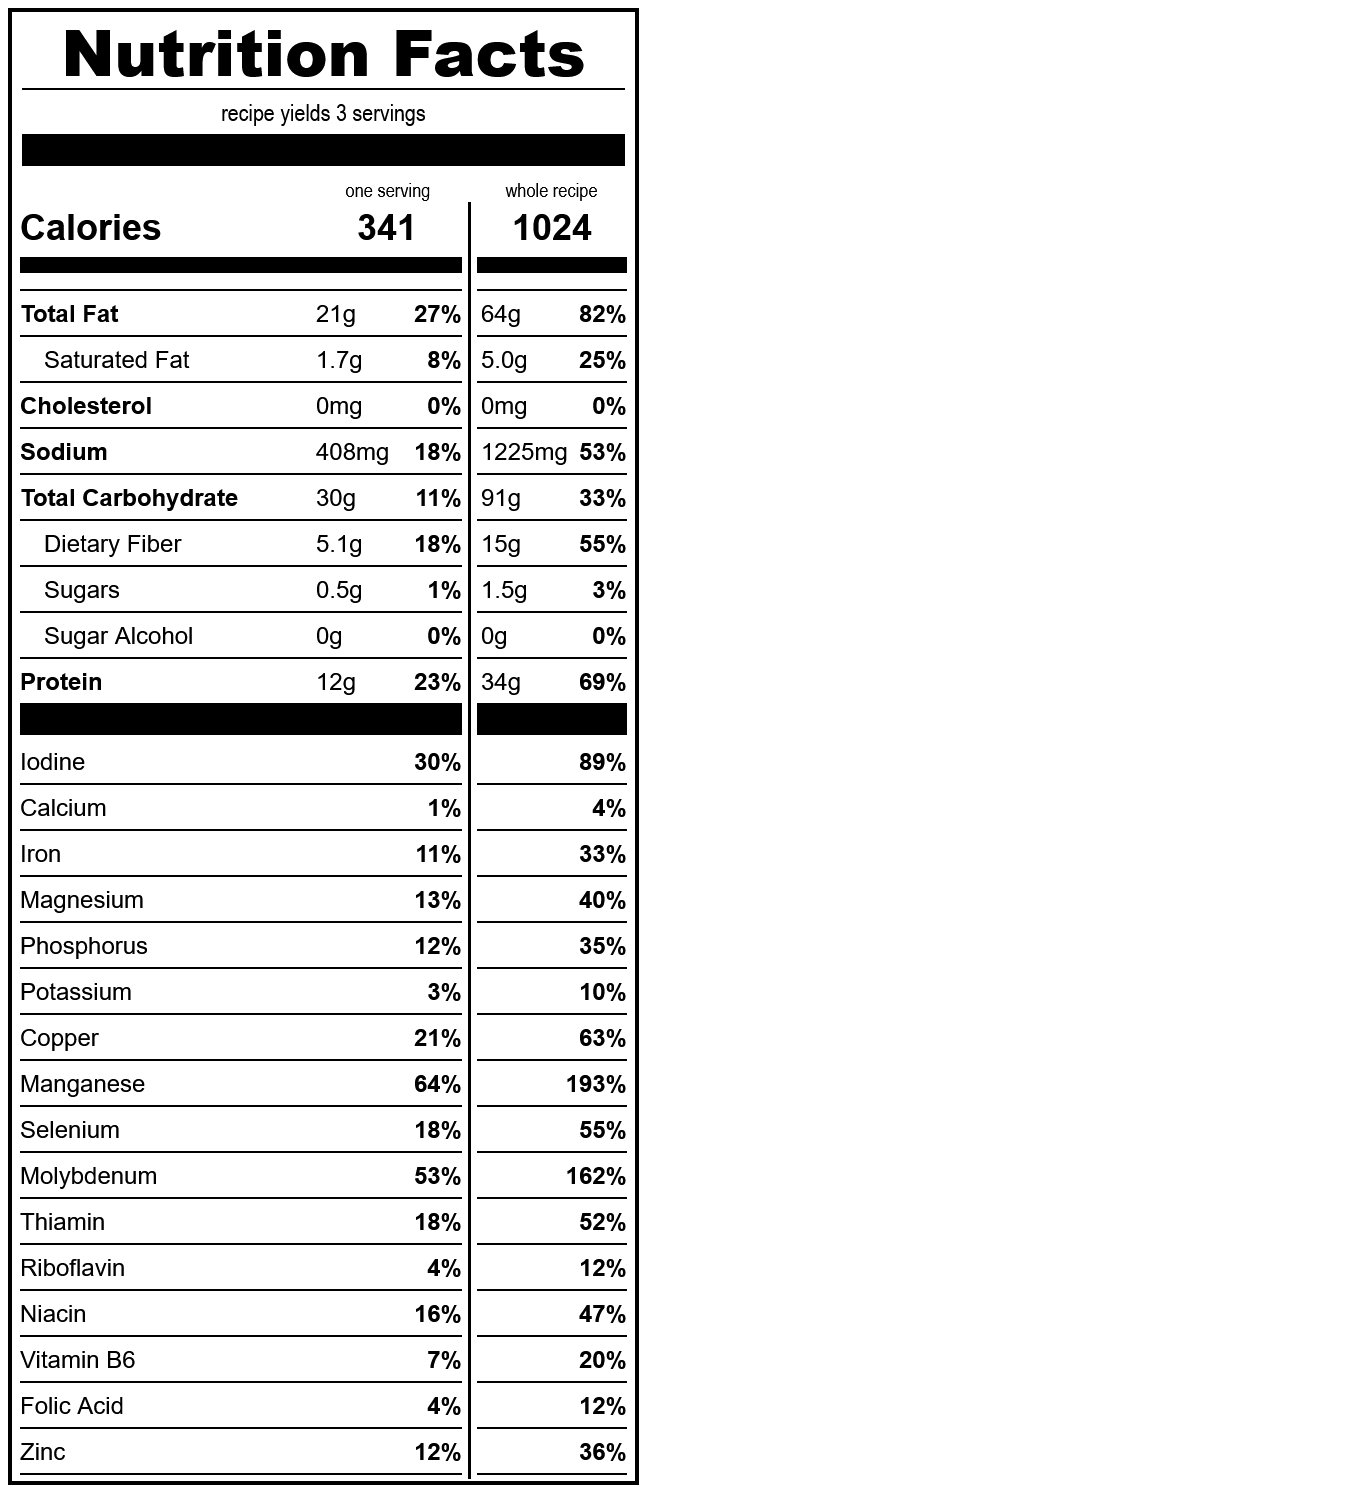
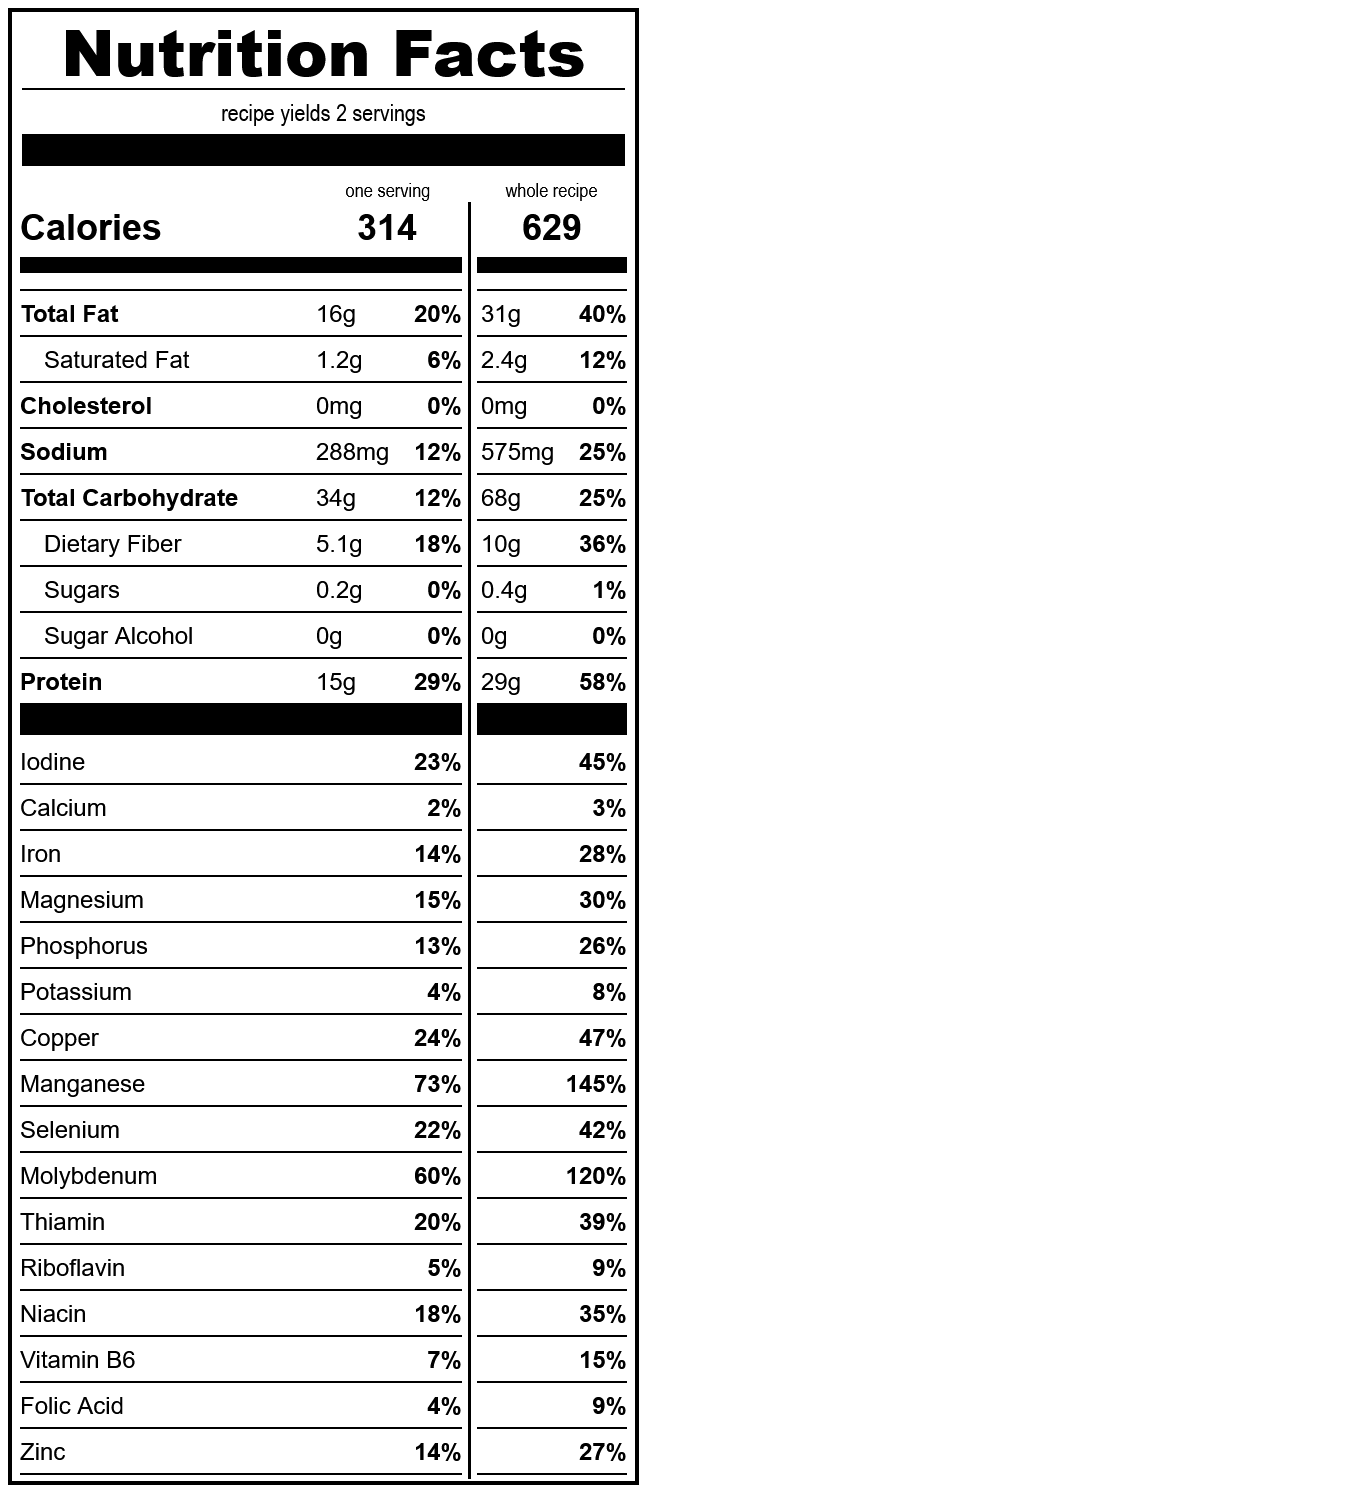
update crepes & waffles

diff --git a/source/nutrition/nutrition_labels/crepes/nutrition_facts.html b/source/nutrition/nutrition_labels/crepes/nutrition_facts.html
@@ -129,7 +129,7 @@
         <div id="pre-table">
             <h1>Nutrition Facts</h1>
             <hr>
-            <p id="servings">recipe yields 3 servings</p>
+            <p id="servings">recipe yields 2 servings</p>
             <hr class="thiccc">
         </div>
 
@@ -144,11 +144,11 @@
                     <hr class="thicc">
                     <hr>
                 </td>
-                <td>341
+                <td>314
                     <hr class="thicc">
                     <hr>
                 </td>
-                <td>1024
+                <td>629
                     <hr class="thicc">
                     <hr>
                 </td>
@@ -157,10 +157,10 @@
                 <td>Total Fat
                     <hr>
                 </td>
-                <td class="grams">21g<span class="dv">27%</span>
+                <td class="grams">16g<span class="dv">20%</span>
                     <hr>
                 </td>
-                <td class="grams">64g<span class="dv">82%</span>
+                <td class="grams">31g<span class="dv">40%</span>
                     <hr>
                 </td>
             </tr>
@@ -168,10 +168,10 @@
                 <td><span class="subset">Saturated Fat</span>
                     <hr>
                 </td>
-                <td class="grams">1.7g<span class="dv">8%</span>
+                <td class="grams">1.2g<span class="dv">6%</span>
                     <hr>
                 </td>
-                <td class="grams">5.0g<span class="dv">25%</span>
+                <td class="grams">2.4g<span class="dv">12%</span>
                     <hr>
                 </td>
             </tr>
@@ -190,10 +190,10 @@
                 <td>Sodium
                     <hr>
                 </td>
-                <td class="grams">408mg<span class="dv">18%</span>
+                <td class="grams">288mg<span class="dv">12%</span>
                     <hr>
                 </td>
-                <td class="grams">1225mg<span class="dv">53%</span>
+                <td class="grams">575mg<span class="dv">25%</span>
                     <hr>
                 </td>
             </tr>
@@ -201,10 +201,10 @@
                 <td>Total Carbohydrate
                     <hr>
                 </td>
-                <td class="grams">30g<span class="dv">11%</span>
+                <td class="grams">34g<span class="dv">12%</span>
                     <hr>
                 </td>
-                <td class="grams">91g<span class="dv">33%</span>
+                <td class="grams">68g<span class="dv">25%</span>
                     <hr>
                 </td>
             </tr>
@@ -215,7 +215,7 @@
                 <td class="grams">5.1g<span class="dv">18%</span>
                     <hr>
                 </td>
-                <td class="grams">15g<span class="dv">55%</span>
+                <td class="grams">10g<span class="dv">36%</span>
                     <hr>
                 </td>
             </tr>
@@ -223,10 +223,10 @@
                 <td><span class="subset">Sugars</span>
                     <hr>
                 </td>
-                <td class="grams">0.5g<span class="dv">1%</span>
+                <td class="grams">0.2g<span class="dv">0%</span>
                     <hr>
                 </td>
-                <td class="grams">1.5g<span class="dv">3%</span>
+                <td class="grams">0.4g<span class="dv">1%</span>
                     <hr>
                 </td>
             </tr>
@@ -245,30 +245,30 @@
                 <td>Protein
                     <hr class="thiccc">
                 </td>
-                <td class="grams">12g<span class="dv">23%</span>
+                <td class="grams">15g<span class="dv">29%</span>
                     <hr class="thiccc">
                 </td>
-                <td class="grams">34g<span class="dv">69%</span>
+                <td class="grams">29g<span class="dv">58%</span>
                     <hr class="thiccc">
                 </td>
             </tr>
         </table>
-        <table id="vitamins"><tr><td>Iodine<hr></td><td>30%<hr></td><td>89%<hr></td></tr>
-<tr><td>Calcium<hr></td><td>1%<hr></td><td>4%<hr></td></tr>
-<tr><td>Iron<hr></td><td>11%<hr></td><td>33%<hr></td></tr>
-<tr><td>Magnesium<hr></td><td>13%<hr></td><td>40%<hr></td></tr>
-<tr><td>Phosphorus<hr></td><td>12%<hr></td><td>35%<hr></td></tr>
-<tr><td>Potassium<hr></td><td>3%<hr></td><td>10%<hr></td></tr>
-<tr><td>Copper<hr></td><td>21%<hr></td><td>63%<hr></td></tr>
-<tr><td>Manganese<hr></td><td>64%<hr></td><td>193%<hr></td></tr>
-<tr><td>Selenium<hr></td><td>18%<hr></td><td>55%<hr></td></tr>
-<tr><td>Molybdenum<hr></td><td>53%<hr></td><td>162%<hr></td></tr>
-<tr><td>Thiamin<hr></td><td>18%<hr></td><td>52%<hr></td></tr>
-<tr><td>Riboflavin<hr></td><td>4%<hr></td><td>12%<hr></td></tr>
-<tr><td>Niacin<hr></td><td>16%<hr></td><td>47%<hr></td></tr>
-<tr><td>Vitamin B6<hr></td><td>7%<hr></td><td>20%<hr></td></tr>
-<tr><td>Folic Acid<hr></td><td>4%<hr></td><td>12%<hr></td></tr>
-<tr><td>Zinc<hr></td><td>12%<hr></td><td>36%<hr></td></tr></table>
+        <table id="vitamins"><tr><td>Iodine<hr></td><td>23%<hr></td><td>45%<hr></td></tr>
+<tr><td>Calcium<hr></td><td>2%<hr></td><td>3%<hr></td></tr>
+<tr><td>Iron<hr></td><td>14%<hr></td><td>28%<hr></td></tr>
+<tr><td>Magnesium<hr></td><td>15%<hr></td><td>30%<hr></td></tr>
+<tr><td>Phosphorus<hr></td><td>13%<hr></td><td>26%<hr></td></tr>
+<tr><td>Potassium<hr></td><td>4%<hr></td><td>8%<hr></td></tr>
+<tr><td>Copper<hr></td><td>24%<hr></td><td>47%<hr></td></tr>
+<tr><td>Manganese<hr></td><td>73%<hr></td><td>145%<hr></td></tr>
+<tr><td>Selenium<hr></td><td>22%<hr></td><td>42%<hr></td></tr>
+<tr><td>Molybdenum<hr></td><td>60%<hr></td><td>120%<hr></td></tr>
+<tr><td>Thiamin<hr></td><td>20%<hr></td><td>39%<hr></td></tr>
+<tr><td>Riboflavin<hr></td><td>5%<hr></td><td>9%<hr></td></tr>
+<tr><td>Niacin<hr></td><td>18%<hr></td><td>35%<hr></td></tr>
+<tr><td>Vitamin B6<hr></td><td>7%<hr></td><td>15%<hr></td></tr>
+<tr><td>Folic Acid<hr></td><td>4%<hr></td><td>9%<hr></td></tr>
+<tr><td>Zinc<hr></td><td>14%<hr></td><td>27%<hr></td></tr></table>
     </div>
 </body>
 

diff --git a/source/nutrition/nutrition_labels/waffles/nutrition_facts.html b/source/nutrition/nutrition_labels/waffles/nutrition_facts.html
@@ -144,11 +144,11 @@
                     <hr class="thicc">
                     <hr>
                 </td>
-                <td>350
+                <td>296
                     <hr class="thicc">
                     <hr>
                 </td>
-                <td>1049
+                <td>889
                     <hr class="thicc">
                     <hr>
                 </td>
@@ -157,10 +157,10 @@
                 <td>Total Fat
                     <hr>
                 </td>
-                <td class="grams">26g<span class="dv">33%</span>
+                <td class="grams">20g<span class="dv">25%</span>
                     <hr>
                 </td>
-                <td class="grams">78g<span class="dv">100%</span>
+                <td class="grams">59g<span class="dv">76%</span>
                     <hr>
                 </td>
             </tr>
@@ -168,10 +168,10 @@
                 <td><span class="subset">Saturated Fat</span>
                     <hr>
                 </td>
-                <td class="grams">1.9g<span class="dv">10%</span>
+                <td class="grams">1.5g<span class="dv">8%</span>
                     <hr>
                 </td>
-                <td class="grams">5.8g<span class="dv">29%</span>
+                <td class="grams">4.5g<span class="dv">22%</span>
                     <hr>
                 </td>
             </tr>

diff --git a/recipes/breakfast/crepes.md b/recipes/breakfast/crepes.md
@@ -1,28 +1,27 @@
 # crepes
-*yield: 3 servings*
+*yield: 2 servings*
 
 ### ingredients
-- 1 c soy milk
-- 1/2 t salt
-- 1/4 c oil
-- 1/4 c water
+- 1 c water
+- 1/4 t salt
+- 2 T oil
 - 1/4 c sourdough starter
-- 3/4 c whole wheat flour
-- 2 T gluten
+- 1/2 c whole wheat flour
+- 3 T gluten
 - 1/8 t guar gum
 
 <br>
 
 ### directions:
 
-figure it out I guess
+probably just Google [how to cook crepes](https://www.google.com/search?q=how+to+cook+crepes)
 
 
 <br>
 
 ### calculated ingredient cost:
 
-$1.08 for the whole recipe, $0.36 per serving
+$0.55 for the whole recipe, $0.27 per serving
 
 <br>
 

diff --git a/recipes/breakfast/waffles.md b/recipes/breakfast/waffles.md
@@ -4,7 +4,7 @@
 ### ingredients
 - 1 c water
 - 1/2 t salt
-- 1/3 c oil
+- 1/4 c oil
 - 1/4 c sourdough starter
 - 3/4 c whole wheat flour
 - 1/2 T baking powder
@@ -21,7 +21,7 @@ Mix everything in a bowl and cook as per your waffle maker's instructions.
 
 ### calculated ingredient cost:
 
-$0.54 for the whole recipe, $0.18 per serving
+$0.48 for the whole recipe, $0.16 per serving
 
 <br>
 
